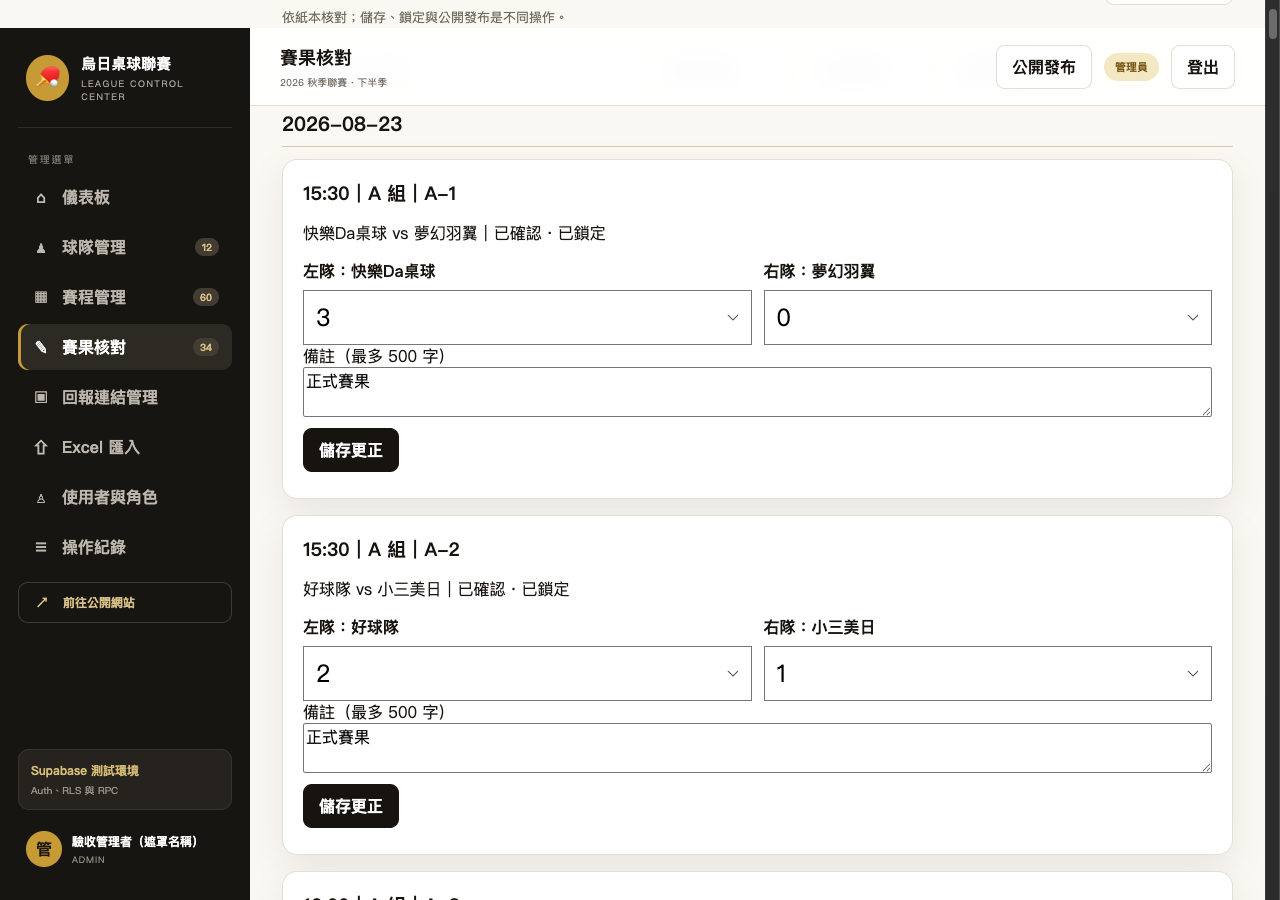
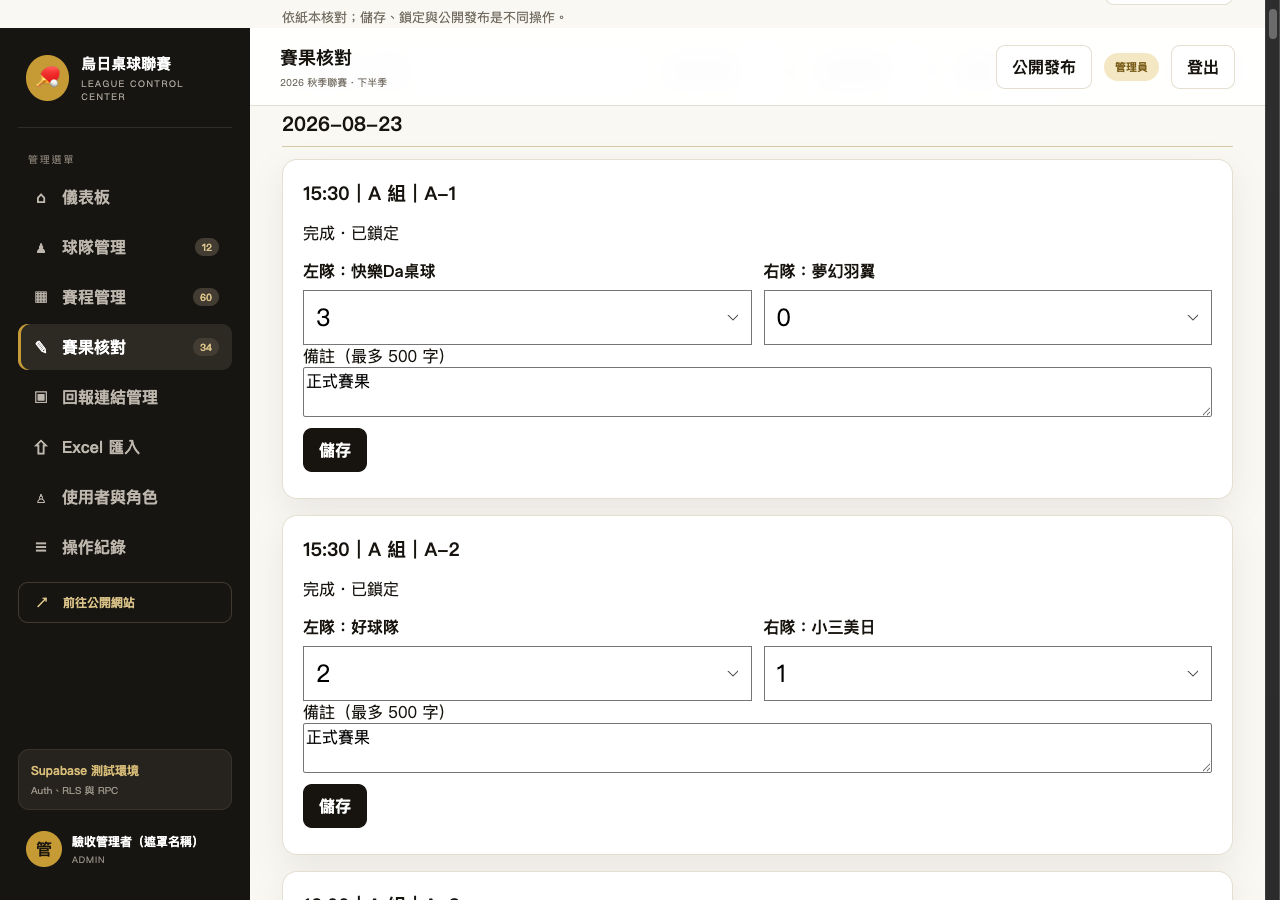
fix: reduce review states and unify score saving labels (#53)

diff --git a/assets/js/result-review.js b/assets/js/result-review.js
@@ -11,12 +11,12 @@ for(const m of matches){const data=getData(),team=code=>data.teams.find(t=>t.tea
 if(!candidates.length&&!d.source&&!d.request.blocked)d.source='custom';
 const locked=Boolean(m.locked||result?.locked),denied=locked&&!isAdmin(),frozen=denied||d.request.blocked||d.lockUnknown;
 const parts=m.match_code.match(/^([A-Za-z0-9]+)-(\d{4}-\d{2}-\d{2})-(\d+)$/),displayCode=parts&&parts[1]===m.group&&parts[2]===m.date?`${parts[1]}-${parts[3]}`:m.match_code;
-const card=n('article',{class:'card review-card','data-review-match':m.match_code}),heading=n('h3',{title:m.match_code,text:`${m.time||''}｜${m.group} 組｜${displayCode}`}),status=n('p',{text:`${team(m.home_team_code)} vs ${team(m.away_team_code)}｜${result?'已確認':candidates.length?'待核對':'待補登'}${locked?'・已鎖定':''}`});card.append(heading,status);
-const fs=n('fieldset',{},n('legend',{text:'採用回報或自行調整'}));for(const c of (candidates.length?[...candidates,{id:'custom'}]:[])){const radio=n('input',{type:'radio',name:`source-${m.match_code}`,value:c.id,'aria-label':c.id==='custom'?'回報都不正確，自行調整':`採用回報 ${c.home_score}–${c.away_score}`});radio.checked=d.source===c.id;radio.disabled=frozen;radio.onchange=()=>{if(frozen)return;d.dirty=true;d.source=c.id;if(c.id!=='custom'){d.home=String(c.home_score);d.away=String(c.away_score)}render(currentMatches)};fs.append(n('label',{class:'report-candidate'},radio,n('span',{text:c.id==='custom'?'回報都不正確，自行調整／依紙本補登':`${team(m.home_team_code)} ${c.home_score}–${c.away_score} ${team(m.away_team_code)}｜回報時間 ${new Date(c.created_at).toLocaleString('zh-TW')}`})))}if(candidates.length)card.append(fs);
+const card=n('article',{class:'card review-card','data-review-match':m.match_code}),heading=n('h3',{title:m.match_code,text:`${m.time||''}｜${m.group} 組｜${displayCode}`}),status=n('p',{class:'review-state',text:`${R.reviewLabels[R.reviewState(result,candidates.length>0)]}${locked?'・已鎖定':''}`});card.append(heading,status);
+const fs=n('fieldset',{},n('legend',{text:'採用回報或自行調整'}));for(const c of (candidates.length?[...candidates,{id:'custom'}]:[])){const radio=n('input',{type:'radio',name:`source-${m.match_code}`,value:c.id,'aria-label':c.id==='custom'?'回報都不正確，自行調整':`採用回報 ${c.home_score}–${c.away_score}`});radio.checked=d.source===c.id;radio.disabled=frozen;radio.onchange=()=>{if(frozen)return;d.dirty=true;d.source=c.id;if(c.id!=='custom'){d.home=String(c.home_score);d.away=String(c.away_score)}render(currentMatches)};fs.append(n('label',{class:'report-candidate'},radio,n('span',{text:c.id==='custom'?'回報都不正確，自行調整／依紙本補登':`${c.home_score}–${c.away_score}｜回報時間 ${new Date(c.created_at).toLocaleString('zh-TW')}`})))}if(candidates.length)card.append(fs);
 const scores=n('div',{class:'review-scores'});for(const [key,code,label]of [['home',m.home_team_code,'左隊'],['away',m.away_team_code,'右隊']]){const s=n('select',{'aria-label':`${label} ${team(code)} 最終比分`});s.append(new Option('—',''),...['0','1','2','3'].map(v=>new Option(v,v)));s.value=d[key];s.disabled=frozen;s.onchange=()=>{if(frozen)return;d.dirty=true;d[key]=s.value;d.source='custom';for(const r of fs.querySelectorAll('input'))r.checked=r.value==='custom'};scores.append(n('label',{},n('strong',{text:`${label}：${team(code)}`}),s))}card.append(scores);
 const note=n('textarea',{maxlength:'500',rows:'2',class:'review-note','aria-label':'備註（最多 500 字）'});note.value=d.note;note.disabled=frozen;note.oninput=()=>{if(!frozen){d.dirty=true;d.note=note.value}};card.append(n('label',{},n('span',{text:'備註（最多 500 字）'}),note));
 const feedbackText=feedback.get(m.match_code)||(denied?'比分已鎖定，僅管理者可更正。':'');if(feedbackText)card.append(n('p',{class:'review-feedback',role:'status',text:feedbackText}));
-const actions=n('div',{class:'report-actions'}),save=n('button',{type:'button',class:'primary',text:result?'儲存更正':'確認比分並儲存'});save.disabled=frozen;
+const actions=n('div',{class:'report-actions'}),save=n('button',{type:'button',class:'primary',text:'儲存'});save.disabled=frozen;
 async function verify(){try{d.request.resolve(await api.reviewStatus(d.request));if(d.request.phase==='saved'){await committed(d.request.receipt)}else{feedback.set(m.match_code,'已查證原請求未寫入，輸入已保留，可重試。');render(currentMatches)}}catch{feedback.set(m.match_code,'查證未完成；保留原場次與請求，不可重送。');render(currentMatches)}}
 async function committed(receipt){d.dirty=false;d.version=receipt.version;d.home=String(receipt.home_score);d.away=String(receipt.away_score);d.source='custom';feedback.set(m.match_code,`${local?'本機展示儲存（非資料庫）：':''}${m.match_code} 已確認儲存 ${receipt.home_score}–${receipt.away_score}；公開資料待發布。`);if(feedbackTarget)feedbackTarget.textContent=feedback.get(m.match_code);onCommitted?.();const ok=await refresh();if(!ok)feedback.set(m.match_code,`${m.match_code} 已儲存 ${receipt.home_score}–${receipt.away_score}；畫面更新失敗，寫入未撤銷。`);if(feedbackTarget)feedbackTarget.textContent=feedback.get(m.match_code);render(currentMatches)}
 save.onclick=async()=>{if(d.request.blocked||d.lockUnknown||((m.locked||result?.locked)&&!isAdmin()))return;if(!R.valid(d.home,d.away)||!d.source||Array.from(d.note).length>500){feedback.set(m.match_code,!d.source?'請選擇回報或自行調整。':!R.valid(d.home,d.away)?'請輸入完整合法比分：3–0、0–3、2–1、1–2。':'備註不得超過 500 字。');render(currentMatches);return}const p=d.request.send({match_code:m.match_code,home_score:d.home,away_score:d.away,report_id:d.source==='custom'?null:d.source,note:d.note,expected_version:d.version},input=>api.confirm(input));render(currentMatches);try{const receipt=await p;try{const back=await api.reviewStatus(d.request);if(back.status!=='saved'||JSON.stringify(back.receipt)!==JSON.stringify(receipt))throw Error('readback mismatch')}catch{d.request.phase='unknown';feedback.set(m.match_code,`${m.match_code} 已收到儲存回應，但讀回驗證未完成；請查證原請求。`);render(currentMatches);return}await committed(receipt)}catch(e){feedback.set(m.match_code,d.request.phase==='unknown'?'儲存結果不確定；輸入已保留，請查證原請求，不可重送。':`未寫入：${e.message}。輸入已保留；版本衝突請重新載入並核對。`);render(currentMatches)}};actions.append(save);

diff --git a/admin.html b/admin.html
@@ -45,7 +45,7 @@
         </section>
         <section class="page" id="page-teams"><div class="page-head"><div><h2>球隊管理</h2><p>管理球隊資料與球員名單。</p></div><button class="primary" data-open="team" data-admin-only type="button">＋ 新增球隊</button></div><div class="toolbar"><input class="search" id="teamSearch" placeholder="搜尋球隊名稱或代碼…"><select class="filter" id="teamGroup"><option value="ALL">全部組別</option><option value="A">A 組</option><option value="B">B 組</option></select><span class="count" id="teamCount"></span></div><article class="card table-card desktop-table"><div class="table-scroll"><table><thead><tr><th>球隊</th><th>組別</th><th>狀態</th><th>球員</th><th>已賽</th><th>下一場</th><th>操作</th></tr></thead><tbody id="teamRows"></tbody></table></div></article><div class="mobile-cards" id="teamCards"></div></section>
         <section class="page" id="page-schedule"><div class="page-head"><div><h2>賽程管理</h2><p>依日期查看、篩選與維護完整賽程。</p></div><button class="primary" data-open="match" data-admin-only type="button">＋ 新增賽程</button></div><div class="toolbar"><input class="search" id="matchSearch" placeholder="搜尋球隊或賽事代碼…"><select class="filter" id="scheduleGroup"><option value="ALL">全部組別</option><option value="A">A 組</option><option value="B">B 組</option></select><select class="filter" id="scheduleStatus"><option value="ALL">全部狀態</option><option value="final">已完成</option><option value="scheduled">待比賽</option><option value="postponed">延期</option><option value="cancelled">取消</option></select><span class="count" id="scheduleCount"></span></div><div id="scheduleList"></div></section>
-        <section class="page" id="page-results"><div class="page-head"><div><h2>賽果核對</h2><p>依紙本核對；儲存、鎖定與公開發布是不同操作。</p></div><button type="button" id="reloadReviews" class="ghost">重新載入回報</button></div><div class="toolbar"><input class="search" id="resultSearch" placeholder="搜尋隊伍／場次…"><select class="filter" id="resultDate" aria-label="比賽日期"><option value="ALL">全部日期</option></select><select class="filter" id="resultGroup"><option value="ALL">全部組別</option><option value="A">A 組</option><option value="B">B 組</option></select><select class="filter" id="resultStatus"><option value="ALL">全部狀態</option><option value="pending">待補登／核對</option><option value="reported">待核對回報</option><option value="missing">待補登</option><option value="final">已確認</option></select><span class="count" id="resultCount"></span></div><p id="resultFeedback" role="status" aria-live="polite"></p><div id="resultCards" class="review-list"></div></section>
+        <section class="page" id="page-results"><div class="page-head"><div><h2>賽果核對</h2><p>依紙本核對；儲存、鎖定與公開發布是不同操作。</p></div><button type="button" id="reloadReviews" class="ghost">重新載入回報</button></div><div class="toolbar"><input class="search" id="resultSearch" placeholder="搜尋隊伍／場次…"><select class="filter" id="resultDate" aria-label="比賽日期"><option value="ALL">全部日期</option></select><select class="filter" id="resultGroup"><option value="ALL">全部組別</option><option value="A">A 組</option><option value="B">B 組</option></select><select class="filter" id="resultStatus"><option value="ALL">全部</option><option value="reported">核對</option><option value="missing">補登</option><option value="final">完成</option></select><span class="count" id="resultCount"></span></div><p id="resultFeedback" role="status" aria-live="polite"></p><div id="resultCards" class="review-list"></div></section>
         <section class="page" id="page-links" data-admin-only><div id="reportLinkManager"></div></section>
         <section class="page" id="page-import"><div class="page-head"><div><h2>Excel 匯入</h2><p>解析、驗證並預覽差異後，才執行非破壞性更新。</p></div><a class="ghost button-link" href="templates/wuri-league-demo-import.xlsx" download>下載範本</a></div><article class="card import-card"><div class="import-steps"><span class="active" id="step1">1　選擇檔案</span><span id="step2">2　驗證與預覽</span><span id="step3">3　確認匯入</span></div><div class="import-zone"><input id="excelFile" type="file" accept=".xlsx"><button class="primary" id="parseExcel" type="button">解析並預覽</button><small>支援 `.xlsx`，單檔上限 5 MB。</small></div><div id="importMessage"></div><div id="preview" class="hidden"><div class="preview-grid" id="previewMetrics"></div><div class="table-scroll"><table><thead><tr><th>資料</th><th>筆數</th><th>狀態</th><th>說明</th></tr></thead><tbody id="previewRows"></tbody></table></div><div class="page-actions align-end"><button class="ghost" id="cancelImport" type="button">取消</button><button class="primary" id="confirmImport" type="button">確認匯入</button></div></div></article></section>
         <section class="page" id="page-users"><div class="page-head"><div><h2>使用者與角色</h2><p>管理暱稱、角色與登入狀態；停用可恢復，永久移除會刪除登入帳號與個人資料。</p></div><button class="primary" id="openInviteUser" data-admin-only data-remote-only type="button">＋ 邀請使用者</button></div><div id="userMessage" aria-live="polite"></div><div class="user-grid" id="userGrid"></div></section>

diff --git a/assets/js/admin.js b/assets/js/admin.js
@@ -36,7 +36,7 @@ function teamActions(team){const box=node('div',{class:'actions-cell'});if(isAdm
 function teamCell(team){return node('div',{class:'team-cell'},logo(team.team_code),node('div',{},node('strong',{text:team.name}),node('small',{text:team.team_code})))}
 function renderTeams(){const teams=filteredTeams();el('teamCount').textContent=`顯示 ${teams.length} 隊`;replace(el('teamRows'),...(teams.length?teams.map(team=>{const stats=teamStats(team.team_code),players=data.players.filter(player=>player.team_code===team.team_code&&!player.deleted_at);return node('tr',{class:'click-row',onclick:()=>openRoster(team.team_code)},node('td',{},teamCell(team)),node('td',{},statusTag(`${team.group} 組`,team.group.toLowerCase())),node('td',{},statusTag(team.active===false?'已停用':'啟用中',team.active===false?'muted':'ok')),node('td',{text:players.length}),node('td',{text:stats.played}),node('td',{text:stats.next?`${formatDate(stats.next.date)} ${formatTime(stats.next.time)}`:'—'}),node('td',{},teamActions(team)))}):[node('tr',{},node('td',{class:'empty',colspan:'7',text:'沒有符合條件的球隊'}))]));replace(el('teamCards'),...teams.map(team=>{const stats=teamStats(team.team_code),players=data.players.filter(player=>player.team_code===team.team_code&&!player.deleted_at);return node('article',{class:'mobile-card',onclick:()=>openRoster(team.team_code)},node('div',{class:'mobile-card-head'},logo(team.team_code),node('div',{},node('strong',{text:team.name}),node('small',{text:`${team.team_code}・${team.group} 組`})),statusTag(team.active===false?'停用':'啟用',team.active===false?'muted':'ok')),node('div',{class:'mobile-card-meta'},metric('球員',players.length),metric('已賽',stats.played),metric('下一場',stats.next?formatDate(stats.next.date):'—')),teamActions(team))}))}
 function metric(label,value){return node('div',{},node('span',{text:label}),node('b',{text:value}))}
-function filteredMatches(kind){const search=el(kind==='schedule'?'matchSearch':'resultSearch').value.trim().toLowerCase(),group=el(kind==='schedule'?'scheduleGroup':'resultGroup').value,status=el(kind==='schedule'?'scheduleStatus':'resultStatus').value;return [...data.matches].filter(match=>{const state=kind==='schedule'?match.status:resultStatus(match);return(group==='ALL'||match.group===group)&&(status==='ALL'||state===status||(kind==='results'&&state==='pending'&&((status==='reported'&&reviewUI?.hasReports(match.match_code))||(status==='missing'&&!reviewUI?.hasReports(match.match_code)))))&&(!search||`${match.match_code} ${teamName(match.home_team_code)} ${teamName(match.away_team_code)}`.toLowerCase().includes(search))}).sort(matchSort)}
+function filteredMatches(kind){const search=el(kind==='schedule'?'matchSearch':'resultSearch').value.trim().toLowerCase(),group=el(kind==='schedule'?'scheduleGroup':'resultGroup').value,status=el(kind==='schedule'?'scheduleStatus':'resultStatus').value;return [...data.matches].filter(match=>{const state=kind==='schedule'?match.status:window.WuriReporting.reviewState(resultByMatch(match.match_code),reviewUI?.hasReports(match.match_code));return(group==='ALL'||match.group===group)&&(status==='ALL'||state===status)&&(!search||`${match.match_code} ${teamName(match.home_team_code)} ${teamName(match.away_team_code)}`.toLowerCase().includes(search))}).sort(matchSort)}
 function renderSchedule(){const matches=filteredMatches('schedule'),groups=Object.groupBy?Object.groupBy(matches,match=>match.date):matches.reduce((out,match)=>((out[match.date]??=[]).push(match),out),{});el('scheduleCount').textContent=`顯示 ${matches.length} 場`;replace(el('scheduleList'),...Object.entries(groups).map(([date,rows])=>node('section',{class:'schedule-day'},node('h3',{class:'day-heading'},formatDate(date),node('span',{text:`${rows.length} 場賽事`})),...rows.map(match=>{const result=resultByMatch(match.match_code),actions=node('div',{class:'actions-cell'});if(isAdmin())actions.append(node('button',{class:'icon-btn',type:'button',onclick:()=>openMatchDialog(match)},'修改'));if(result?.locked)actions.append(statusTag('已鎖定','warn'));return node('div',{class:'schedule-row'},node('b',{text:formatTime(match.time)}),statusTag(`${match.group} 組`,match.group.toLowerCase()),node('div',{class:'matchup',text:`${teamName(match.home_team_code)} vs ${teamName(match.away_team_code)}`}),node('div',{class:'score-text',text:result?`${result.home_score}–${result.away_score}`:'—'}),node('div',{class:'venue',text:match.venue||'未設定'}),actions)}))));if(!matches.length)replace(el('scheduleList'),node('div',{class:'empty',text:'沒有符合條件的賽程'}))}
 
 function renderResults(){const matches=filteredMatches('results').filter(m=>el('resultDate').value==='ALL'||m.date===el('resultDate').value);el('resultCount').textContent=`顯示 ${matches.length} 場`;reviewUI?.render(matches)}

diff --git a/assets/js/reporting-core.js b/assets/js/reporting-core.js
@@ -1,6 +1,8 @@
 (function(root,factory){const api=factory();if(typeof module==='object'&&module.exports)module.exports=api;if(root)root.WuriReporting=api})(globalThis,function(){
 'use strict';
 const valid=(a,b)=>a!==''&&b!==''&&a!=null&&b!=null&&((Number(a)===3&&Number(b)===0)||(Number(a)===0&&Number(b)===3)||(Number(a)===2&&Number(b)===1)||(Number(a)===1&&Number(b)===2));
+const reviewLabels=Object.freeze({reported:'核對',missing:'補登',final:'完成'});
+const reviewState=(result,hasReports)=>result?'final':hasReports?'reported':'missing';
 function draft(result,reports){if(result)return {home:String(result.home_score),away:String(result.away_score),source:'custom',note:result.note||'',version:result.version||0};const r=reports.length===1&&valid(reports[0].home_score,reports[0].away_score)?reports[0]:null;return {home:r?String(r.home_score):'',away:r?String(r.away_score):'',source:r?.id||'',note:'',version:0}}
 class RequestState{
  constructor(uuid=()=>crypto.randomUUID()){this.uuid=uuid;this.phase='idle';this.payload=null;this.requestId=null;this.receipt=null}
@@ -22,5 +24,5 @@ function adapter(client,seasonCode){
  lock:(code,version)=>call('lock_match_result',{p_match_code:code,p_expected_version:version,p_published:true},true)
  }
 }
-return {valid,draft,RequestState,adapter};
+return {valid,draft,reviewState,reviewLabels,RequestState,adapter};
 });

diff --git a/docs/issue-53-daily-reporting.md b/docs/issue-53-daily-reporting.md
@@ -6,6 +6,8 @@
 - 裁判回報只寫入獨立的回報／請求表；不寫正式結果，不發布，不辨識裁判身分。
 - 有效 admin/scorer 在登入後的「賽果核對」卡片確認、補登或更正；scorer 可改他人未鎖定結果。連結管理及鎖定只允許 admin。
 - 場次卡片只有一個比分儲存入口；候選是 radio，單筆預選、衝突不預選，手改下拉切換為自行調整。舊比分 popup 已移除，賽程管理不再提供比分編輯。
+- 管理者的工作狀態只有「核對／補登／完成」：「核對」為有待處理裁判回報且尚無正式結果；「補登」為沒有待處理回報且尚無正式結果；「完成」為正式結果已儲存，不依鎖定／發布與否區分。衝突仍歸核對，正式結果存在時優先歸完成；選單另有「全部」篩選入口。
+- 每張卡片的隊名只在左右比分欄各出現一次；候選只列左右順序的比分與回報時間。所有比分主按鈕固定為「儲存」，不另區分更正／核對。原始回報、比分順序、權限、鎖定及查證維持不變。
 - 驗收精簡版：按日期分組，日期只出現在群組標題；卡片使用簡短場次標示（如 `A-1`），完整 `match_code` 保留於資料／API 與標題 tooltip。只有格式、組別及日期都吻合時才縮短顯示，不能改寫識別碼。
 - 沒有待核對候選時，隱藏整個 radio 區塊並採用紙本補登／自行調整來源；有候選時保留採用與自行調整選擇。合法比分僅在提交非法輸入後提示。卡片不常駐操作差異或待發布說明，發布狀態集中頂部；儲存成功、權限／網路錯誤與不確定請求查證回饋保留。
 - `scripts/verify-review-layout-browser.cjs` 使用 Test 真實登入及既有賽季資料做唯讀版面驗證，錯誤／草稿測試使用頁面內模型，不呼叫遠端正式結果 mutation，也不新增合成資料。
